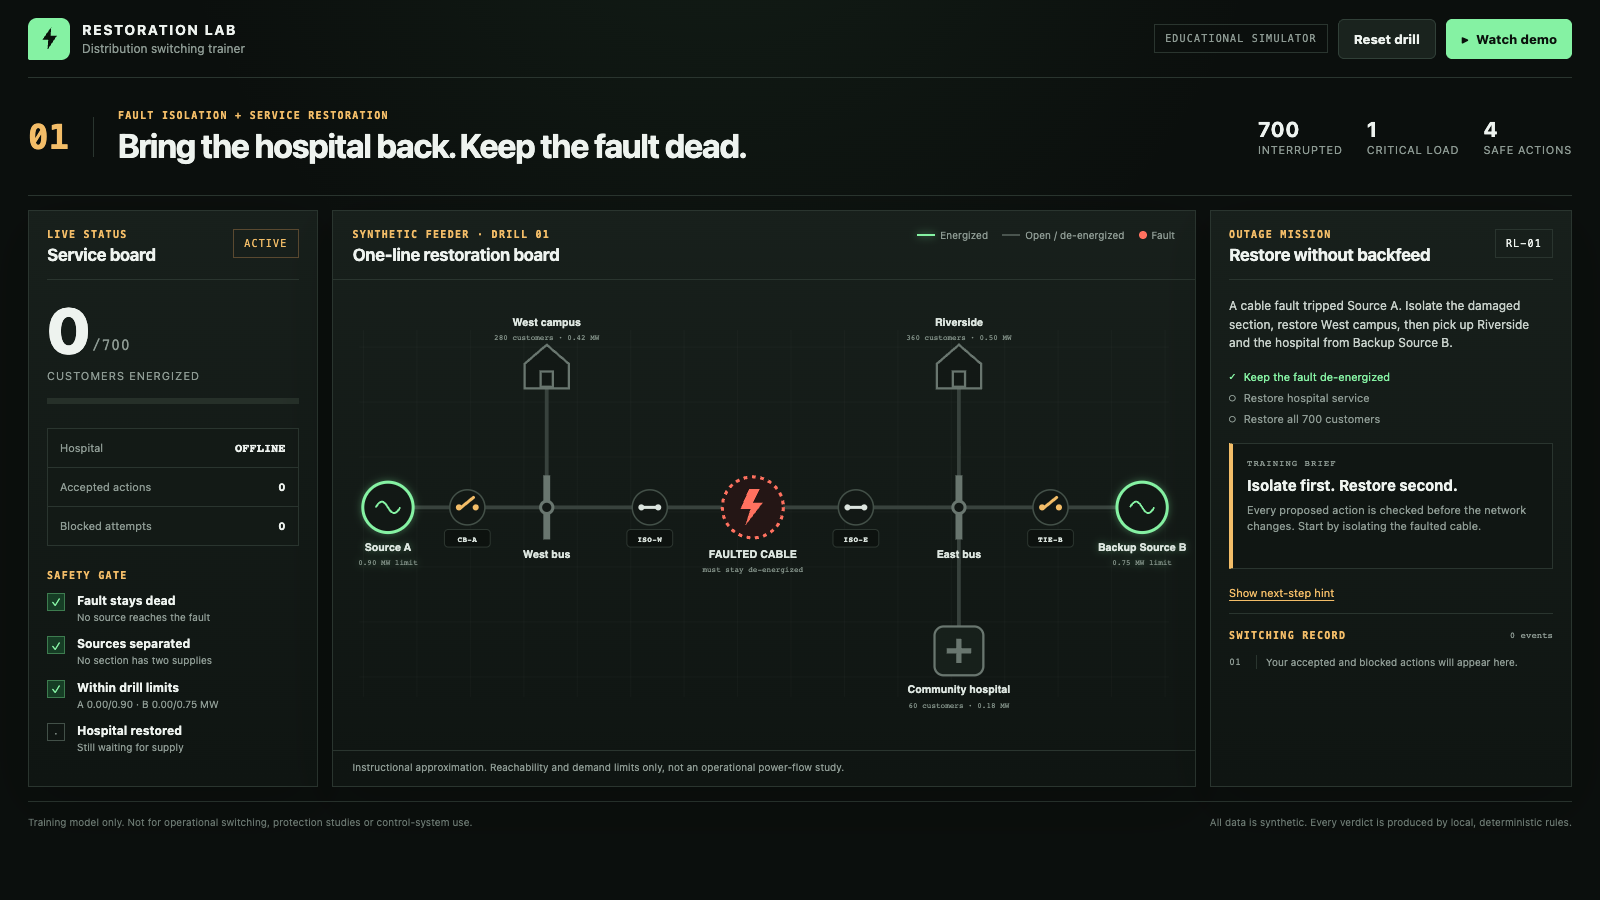
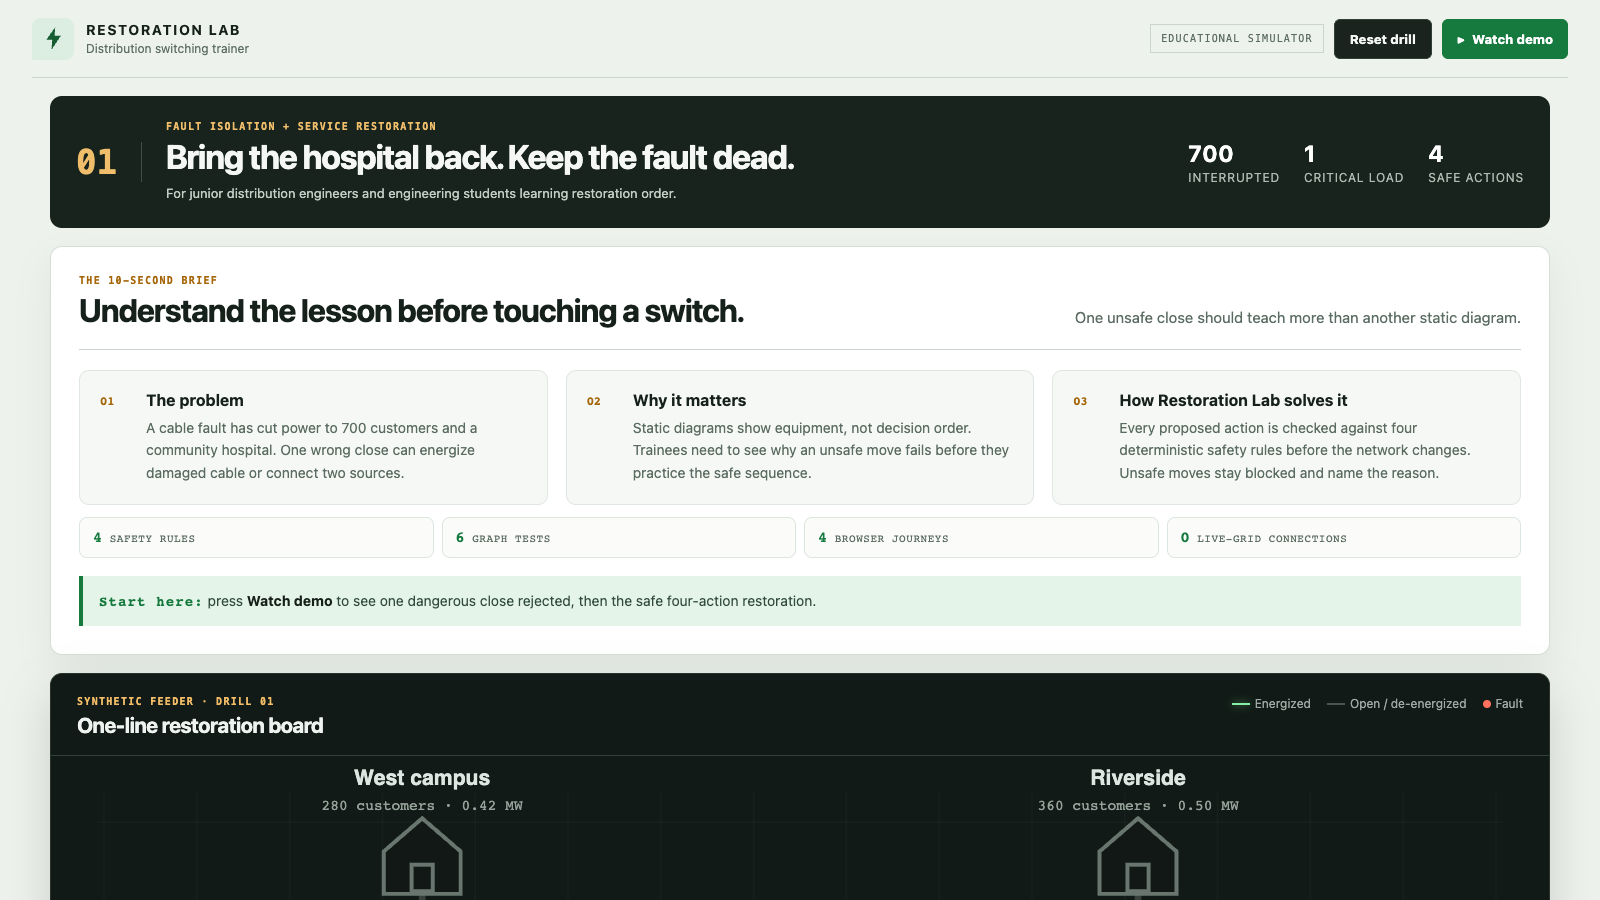
Strengthen judge-facing proof

diff --git a/src/styles.css b/src/styles.css
@@ -145,6 +145,8 @@ a:focus-visible {
   letter-spacing: -.035em;
 }
 
+.audience-line { margin: 9px 0 0; color: #c2cdc6; font-size: 13px; line-height: 1.45; }
+
 .mission-banner .kicker { color: #f0bd6b; }
 
 .mission-facts { display: flex; gap: 24px; }
@@ -169,6 +171,9 @@ a:focus-visible {
 .brief-grid article > span { color: var(--amber); font-family: ui-monospace, monospace; font-size: 12px; font-weight: 800; padding-top: 3px; }
 .brief-grid h3 { margin: 0 0 8px; font-size: 16px; }
 .brief-grid p { margin: 0; color: var(--muted); font-size: 14px; line-height: 1.6; }
+.proof-grid { display: grid; grid-template-columns: repeat(4, 1fr); gap: 8px; margin-top: 12px; }
+.proof-grid span { padding: 11px 13px; border: 1px solid #dce5de; border-radius: 8px; background: #fbfcfa; color: var(--muted); font-family: ui-monospace, monospace; font-size: 11px; text-transform: uppercase; letter-spacing: .05em; }
+.proof-grid strong { color: var(--green); font-size: 15px; }
 .judge-start { margin: 18px 0 0; padding: 14px 16px; border-left: 4px solid var(--green); background: var(--green-deep); color: #314b39; font-size: 14px; line-height: 1.5; }
 .judge-start strong { color: var(--green); font-family: ui-monospace, monospace; letter-spacing: .08em; }
 .judge-start b { color: var(--paper); }
@@ -371,6 +376,7 @@ footer p { margin: 0; }
   .judge-brief-header > p { text-align: left; }
   .brief-grid { grid-template-columns: 1fr; gap: 14px; }
   .brief-grid article { padding: 17px; }
+  .proof-grid { grid-template-columns: repeat(2, 1fr); }
   .status-rail, .mission-panel { padding: 22px; }
 }
 
@@ -384,6 +390,7 @@ footer p { margin: 0; }
   .mission-facts span { font-size: 9px; }
   .mission-facts strong { font-size: 17px; }
   .judge-brief { padding: 20px 16px; }
+  .proof-grid { grid-template-columns: 1fr; }
   .diagram-legend { display: none; }
   .completion-toast { grid-template-columns: auto 1fr; }
   .completion-score { grid-column: 1 / -1; }

diff --git a/src/App.tsx b/src/App.tsx
@@ -42,6 +42,7 @@ export const App = () => {
         <div>
           <span className="kicker">FAULT ISOLATION + SERVICE RESTORATION</span>
           <h1>Bring the hospital back. Keep the fault dead.</h1>
+          <p className="audience-line">For junior distribution engineers and engineering students learning restoration order.</p>
         </div>
         <div className="mission-facts">
           <span><strong>700</strong> interrupted</span>
@@ -80,6 +81,12 @@ export const App = () => {
               <p>Every proposed action is checked against four deterministic safety rules before the network changes. Unsafe moves stay blocked and name the reason.</p>
             </div>
           </article>
+        </div>
+        <div className="proof-grid" aria-label="Verified project evidence">
+          <span><strong>4</strong> safety rules</span>
+          <span><strong>6</strong> graph tests</span>
+          <span><strong>4</strong> browser journeys</span>
+          <span><strong>0</strong> live-grid connections</span>
         </div>
         <p className="judge-start"><strong>Start here:</strong> press <b>Watch demo</b> to see one dangerous close rejected, then the safe four-action restoration.</p>
       </section>

diff --git a/tests/restoration.spec.ts b/tests/restoration.spec.ts
@@ -10,6 +10,8 @@ test('explains the problem and solution before the drill', async ({page}) => {
   await expect(page.getByRole('heading', {name: 'How Restoration Lab solves it'})).toBeVisible();
   await expect(page.getByText(/Every proposed action is checked against four deterministic safety rules/)).toBeVisible();
   await expect(page.getByText(/press Watch demo to see one dangerous close rejected/)).toBeVisible();
+  await expect(page.getByText(/For junior distribution engineers and engineering students/)).toBeVisible();
+  await expect(page.getByText('4 browser journeys')).toBeVisible();
 
   const diagramBox = await page.locator('.diagram-panel').boundingBox();
   const statusBox = await page.locator('.status-rail').boundingBox();

diff --git a/video/src/scenes/EvidenceScene.tsx b/video/src/scenes/EvidenceScene.tsx
@@ -64,8 +64,8 @@ export const EvidenceScene = () => {
           padding: '30px 32px',
         }}
       >
-        <div style={{fontFamily: mono, color: palette.green, fontSize: 15, letterSpacing: 2.1}}>BUILD RECORD</div>
-        {['scope.md', 'prd.md', 'spec.md', '6 unit tests', '3 browser tests', 'app-map.html'].map((item, index) => (
+        <div style={{fontFamily: mono, color: palette.green, fontSize: 15, letterSpacing: 2.1}}>DEVPOST LEARN SKILL PACK</div>
+        {['scope.md', 'prd.md', 'spec.md', 'build checklist', '6 unit tests', '4 browser tests'].map((item, index) => (
           <div
             key={item}
             style={{

diff --git a/devpost/checklist.md b/devpost/checklist.md
@@ -56,6 +56,7 @@ Build mode: fast. Approval basis: the learner requested an autonomous end-to-end
 ## Final Review
 - [x] Final review complete — mechanical and visual agent QA passed; learner readiness confirmation remains pending.
 - [ ] Judge-first opening is readable at a glance: clean light background, larger type, full-width diagram and clear problem/why/solution brief
+- [ ] Judge-first evidence pass names the learner audience and exposes verified test, rule and connection counts
 
 ## Code Tour and App Map
 - [x] Learning activity complete — a reference-only code tour and reusable two-phase state pattern are recorded; no learner interaction is claimed.
@@ -75,4 +76,5 @@ Activity mode: Reference-only route completed.
 - Learner hands-on checkpoints remain open because the learner asked for an uninterrupted autonomous run. No feedback was invented.
 - 2026-10-25: Learner feedback found that the console opened faster than a judge could understand it. Add a ten-second problem/why/solution brief without changing the drill or safety model.
 - 2026-10-25: Learner approved the content but found the dense dark layout, small type and background hard to scan. Move the diagram full width, place status panels below it, enlarge the type and use a clean light canvas with one dark technical focal panel.
+- 2026-10-25: Final judging review asked for more visible proof. Name the learner audience on the first screen and add counts that judges can trace to the scenario and automated checks.
 

diff --git a/devpost/spec.md b/devpost/spec.md
@@ -47,7 +47,7 @@ Use a flat light-neutral page with white cards and no decorative page texture. T
 ## Components
 
 ### RestorationLab Page
-Owns the responsive layout and connects the drill hook to each panel. Before the technical console, it renders a large three-part judge brief that explains the outage problem, why order matters and how the deterministic pre-action gate teaches the solution. The diagram receives the full first row. Service status and mission evidence follow beneath it, then stack on narrower screens.
+Owns the responsive layout and connects the drill hook to each panel. Before the technical console, it names the learner audience and renders a large three-part judge brief that explains the outage problem, why order matters and how the deterministic pre-action gate teaches the solution. A small evidence strip records test and connection counts. The diagram receives the full first row. Service status and mission evidence follow beneath it, then stack on narrower screens.
 PRD ref: `prd.md > Screens and Layout`.
 
 ### OneLineDiagram

diff --git a/devpost/prd.md b/devpost/prd.md
@@ -24,8 +24,9 @@ Approval basis: the learner approved the proposed product direction and delegate
 One responsive training console.
 
 - Top bar: product name, educational-simulator label, Reset and Watch demo controls.
-- Mission strip: the outage story and the three restoration goals.
+- Mission strip: the outage story, named learner audience and the three restoration goals.
 - Judge brief: three compact statements labeled The problem, Why it matters and How we solve it, followed by one clear starting instruction.
+- Evidence strip: four safety rules, six graph tests, four browser journeys and zero live-grid connections.
 - Center: the interactive one-line diagram. This is the visual focus.
 - Left rail: live service totals and safety-check status.
 - Right rail: coach message, optional hint and event timeline.

diff --git a/README.md b/README.md
@@ -47,7 +47,7 @@ The safe sequence is:
 npm run verify
 ```
 
-That command runs six graph-engine tests, builds the production bundle and runs three browser tests. The browser suite checks the blocked action, the safe restoration and the timed Watch demo path.
+That command runs six graph-engine tests, builds the production bundle and runs four browser tests. The browser suite checks the judge-first explanation, blocked action, safe restoration and timed Watch demo path.
 
 ## Project map
 
